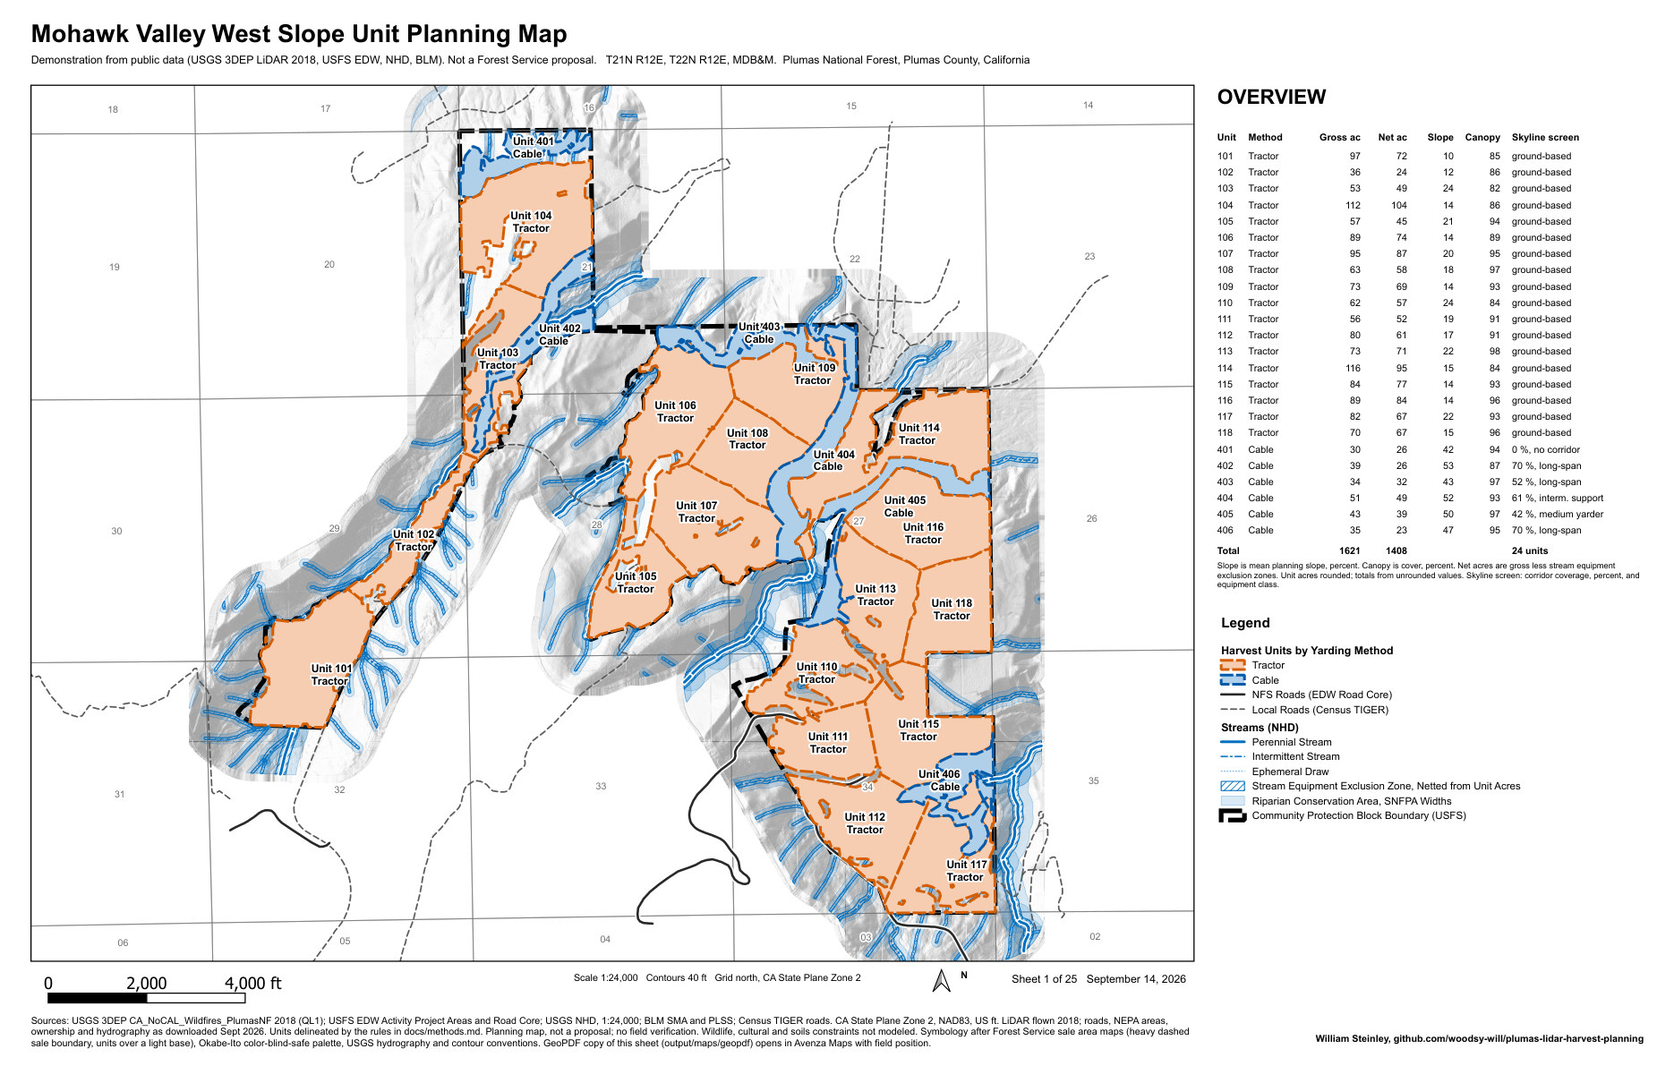
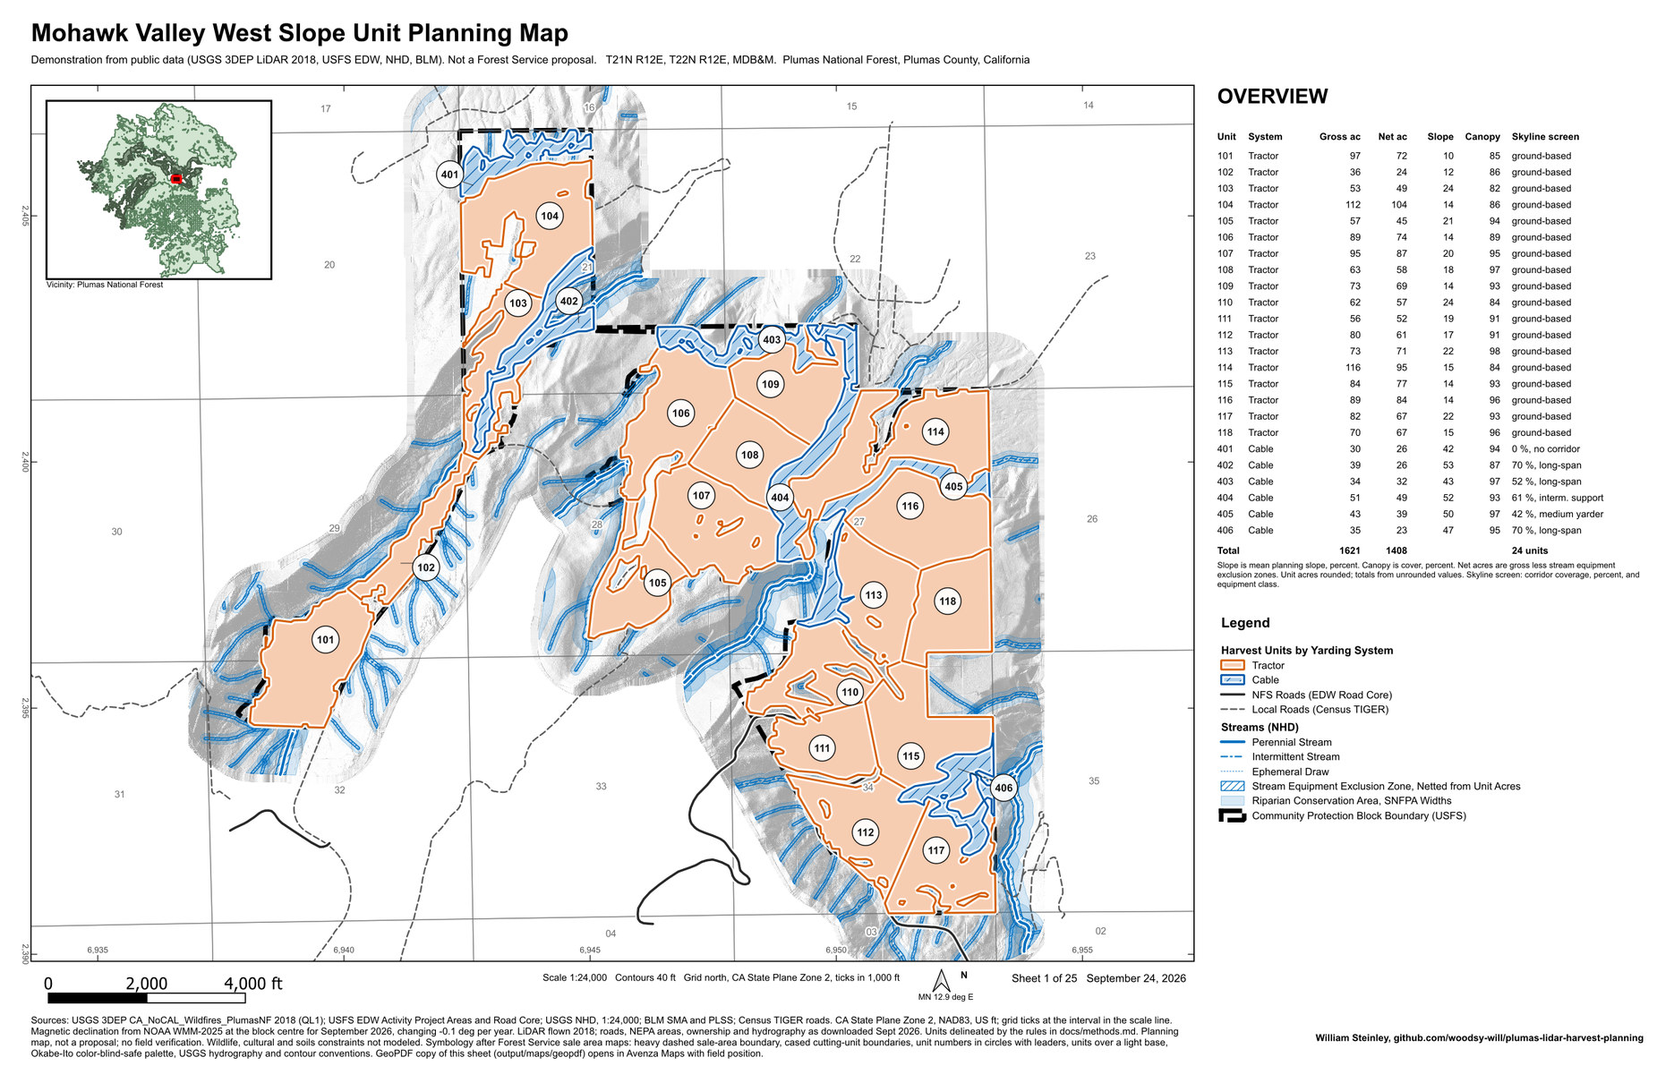
Refreshed map sheets, analyzer figures, a before-and-after on the symbology, and sample sheet links
Map sheets and the yarding-class figure come from the reworked symbology: units cased so neighbours read
apart, numbered in circles, cable units hatched, grid ticks and a vicinity map on the overview.

The Forest Inventory Analyzer had no figure at all. Added two from its browser dashboard running on the
sample cruise that ships with the tool: stand metrics with the species and diameter charts, and the
sampling-statistics table, which shows a 29 percent volume error on five plots and says so.

Added a before-and-after of the unit symbology with the three defects it fixed, and links to a three-sheet
sample as print PDF and a GeoPDF of unit 404, so the cartography can be opened without downloading the
full 194 MB series.

Interactive map: white casing under the unit lines, unit numbers in circles above zoom 13, per-unit
permalinks (#unit=404) and the printed sheet number in each popup.

diff --git a/projects/plumas-lidar-harvest-planning/map/index.html b/projects/plumas-lidar-harvest-planning/map/index.html
@@ -36,6 +36,10 @@
     .leaflet-popup-content td { padding: 1px 6px 1px 0; vertical-align: top; }
     .leaflet-popup-content td:first-child { color: var(--muted); white-space: nowrap; }
     .leaflet-control-layers { font-size: 0.9rem; }
+    /* unit number in a circle, the sale-area-map callout used on the printed sheets */
+    .unit-no { background: rgba(255,255,255,0.92); border: 1px solid #1c2420; border-radius: 50%;
+               width: 30px; height: 30px; line-height: 28px; text-align: center;
+               font-size: 0.78rem; font-weight: 700; color: #1c2420; white-space: nowrap; pointer-events: none; }
   </style>
 </head>
 <body>
@@ -99,28 +103,92 @@
       onEachFeature: (f, l) => l.bindPopup(`<div class="pt">Plot ${f.properties.plot}, unit ${f.properties.unit_id}</div><table>${row('Trees tallied', fmt(f.properties.n_trees))}${row('Slope', fmt(f.properties.slope) + ' %')}${row('QA flags', f.properties.flags || 'none')}</table><p>Simulated BAF 20 cruise. No crew measured these trees.</p>`) }, false);
 
     let selected = null;
-    const unitStyle = f => ({ color: methodColor(f.properties.method), weight: 2.6, fillColor: methodColor(f.properties.method), fillOpacity: 0.06 });
-    add('Harvest units (demonstration)', 'units.geojson', {
-      style: unitStyle,
-      onEachFeature: (f, l) => {
-        const p = f.properties; const cable = p.method === 'Cable';
-        let html = `<div class="pt">Unit ${p.unit_id}, ${p.method}</div><table>` +
-          row('Gross / net acres', `${fmt(p.acres)} / ${fmt(p.net_acres)}`) + row('Mean slope', `${fmt(p.slope_mean)} % (98th pct ${fmt(p.slope_max)} %)`) +
-          row('Aspect', p.aspect) + row('Elevation', `${fmt(p.elev_min)} to ${fmt(p.elev_max)} ft`) + row('Canopy cover', `${fmt(p.cover_pct)} %`) +
-          row('Dominant height', `${fmt(p.dom_ht)} ft`) + row('Nearest road', p.road_ft < 1 ? 'inside unit' : `${fmt(p.road_ft)} ft`);
-        if (cable) {
-          html += row('Landings selected', `${p.landings_used} of ${p.landings}`) + row('Feasible corridors', `${fmt(p.corridors_feasible)} of ${fmt(p.corridors)}`) +
-            row('Unit coverage', `${fmt(p.coverage_pct)} %`) + row('Mean deflection', `${fmt(p.mean_deflection_pct, 1)} %`) + row('Longest feasible span', `${fmt(p.max_feasible_span_ft)} ft`) +
-            row('Equipment', p.equipment) + row('Difficulty', p.difficulty) + (p.payload_at_best_lb ? row('Allowable load', `${fmt(p.payload_at_best_lb)} lb (7/8 in skyline, SF 3)`) : '');
-        } else {
-          html += row('System', 'ground-based') + (p.corridors_feasible !== '' ? row('If cable', `${fmt(p.corridors_feasible)} feasible corridors, ${fmt(p.coverage_pct)} % coverage`) : '');
-        }
-        html += '</table>';
-        l.bindPopup(html, { maxWidth: 340 });
-        l.bindTooltip(`Unit ${p.unit_id} ${p.method}`, { permanent: false, direction: 'center', className: 'unit-tip' });
-        l.on('click', () => { if (selected) selected.setStyle(unitStyle(selected.feature)); l.setStyle({ weight: 4.5, color: '#000', fillOpacity: 0.02 }); selected = l; });
+    const select = l => { if (selected) selected.setStyle(unitStyle(selected.feature)); l.setStyle({ weight: 4.5, color: '#000', fillOpacity: 0.02 }); selected = l; };
+    // Where to hang a unit number. A polygon centroid falls outside a curved unit (405 is the one here), so when it
+    // does, scan horizontal lines across the unit and take the middle of its widest inside run - the same reason the
+    // printed sheets place the number inside the unit and put the rest on a leader.
+    const inRing = (pt, ring) => {
+      let c = false;
+      for (let i = 0, j = ring.length - 1; i < ring.length; j = i++) {
+        const xi = ring[i][0], yi = ring[i][1], xj = ring[j][0], yj = ring[j][1];
+        if (((yi > pt[1]) !== (yj > pt[1])) && (pt[0] < (xj - xi) * (pt[1] - yi) / (yj - yi) + xi)) c = !c;
       }
-    }, true).then(lyr => { map.fitBounds(lyr.getBounds().pad(0.05)); });
+      return c;
+    };
+    function labelPoint(feature, fallback) {
+      const polys = feature.geometry.type === 'Polygon' ? [feature.geometry.coordinates] : feature.geometry.coordinates;
+      const inside = pt => polys.some(p => inRing(pt, p[0]) && !p.slice(1).some(h => inRing(pt, h)));
+      if (inside([fallback.lng, fallback.lat])) return fallback;
+      let x0 = Infinity, y0 = Infinity, x1 = -Infinity, y1 = -Infinity;
+      polys.forEach(p => p[0].forEach(([x, y]) => { x0 = Math.min(x0, x); x1 = Math.max(x1, x); y0 = Math.min(y0, y); y1 = Math.max(y1, y); }));
+      let best = null, bestLen = 0;
+      for (let r = 1; r < 24; r++) {
+        const y = y0 + (y1 - y0) * r / 24;
+        let runStart = null;
+        for (let c = 0; c <= 160; c++) {
+          const x = x0 + (x1 - x0) * c / 160;
+          if (inside([x, y])) { if (runStart === null) runStart = x; }
+          else if (runStart !== null) { if (x - runStart > bestLen) { bestLen = x - runStart; best = [(runStart + x) / 2, y]; } runStart = null; }
+        }
+        if (runStart !== null && x1 - runStart > bestLen) { bestLen = x1 - runStart; best = [(runStart + x1) / 2, y]; }
+      }
+      return best ? L.latLng(best[1], best[0]) : fallback;
+    }
+    const unitStyle = f => ({ color: methodColor(f.properties.method), weight: 2.6, fillColor: methodColor(f.properties.method), fillOpacity: 0.06 });
+    // The units go on as a group: a white casing, the method-coloured boundary over it, and the unit number in a circle.
+    // Neighbouring units of the same method share an edge, and without the white seam that common boundary disappears
+    // into one shape; the printed sheets case the cutting-unit boundary for the same reason.
+    const unitGroup = L.layerGroup(); overlays['Harvest units (demonstration)'] = unitGroup; layers['Harvest units (demonstration)'] = unitGroup;
+    const unitsLoaded = fetch(D + 'units.geojson').then(r => r.json()).then(gj => {
+      const casing = L.geoJSON(gj, { style: { color: '#ffffff', weight: 6, opacity: 0.9, fill: false, lineJoin: 'round' }, interactive: false });
+      // sheet numbers follow the printed series: the overview is sheet 1, then one sheet per unit in id order
+      const sheetOf = {}; gj.features.map(f => +f.properties.unit_id).sort((x, y) => x - y).forEach((id, i) => { sheetOf[id] = i + 2; });
+      const faces = L.geoJSON(gj, {
+        style: unitStyle,
+        onEachFeature: (f, l) => {
+          const p = f.properties; const cable = p.method === 'Cable';
+          let html = `<div class="pt">Unit ${p.unit_id}, ${p.method}</div><table>` +
+            row('Gross / net acres', `${fmt(p.acres)} / ${fmt(p.net_acres)}`) + row('Mean slope', `${fmt(p.slope_mean)} % (98th pct ${fmt(p.slope_max)} %)`) +
+            row('Aspect', p.aspect) + row('Elevation', `${fmt(p.elev_min)} to ${fmt(p.elev_max)} ft`) + row('Canopy cover', `${fmt(p.cover_pct)} %`) +
+            row('Dominant height', `${fmt(p.dom_ht)} ft`) + row('Nearest road', p.road_ft < 1 ? 'inside unit' : `${fmt(p.road_ft)} ft`);
+          if (cable) {
+            html += row('Landings selected', `${p.landings_used} of ${p.landings}`) + row('Feasible corridors', `${fmt(p.corridors_feasible)} of ${fmt(p.corridors)}`) +
+              row('Unit coverage', `${fmt(p.coverage_pct)} %`) + row('Mean deflection', `${fmt(p.mean_deflection_pct, 1)} %`) + row('Longest feasible span', `${fmt(p.max_feasible_span_ft)} ft`) +
+              row('Equipment', p.equipment) + row('Difficulty', p.difficulty) + (p.payload_at_best_lb ? row('Allowable load', `${fmt(p.payload_at_best_lb)} lb (7/8 in skyline, SF 3)`) : '');
+          } else {
+            html += row('System', 'ground-based') + (p.corridors_feasible !== '' ? row('If cable', `${fmt(p.corridors_feasible)} feasible corridors, ${fmt(p.coverage_pct)} % coverage`) : '');
+          }
+          html += row('Printed sheet', `${sheetOf[+p.unit_id]} of 25`) + '</table>';
+          l.bindPopup(html, { maxWidth: 340 });
+          l.bindTooltip(`Unit ${p.unit_id}, ${p.method}`, { sticky: true });   // hover still names the unit when the numbers are hidden at low zoom
+          l.on('click', () => { select(l); history.replaceState(null, '', '#unit=' + p.unit_id); });
+        }
+      });
+      unitGroup.addLayer(casing).addLayer(faces).addTo(map);
+      // #unit=404 opens the map on that unit with its attributes showing, so a unit can be linked to directly
+      const byId = {}; faces.eachLayer(l => { byId[l.feature.properties.unit_id] = l; });
+      const fromHash = () => {
+        const m2 = /#unit=(\w+)/.exec(location.hash); const l = m2 && byId[m2[1]];
+        if (!l) return false;
+        map.fitBounds(l.getBounds().pad(0.6)); select(l); l.openPopup(); return true;
+      };
+      if (!fromHash()) map.fitBounds(faces.getBounds().pad(0.05));
+      window.addEventListener('hashchange', fromHash);
+      // numbers as their own marker layer rather than permanent tooltips: a tooltip is not closed when its layer goes
+      // out with the group, and unchecking the units in the layer list left 24 numbers floating over the basemap.
+      // Polygon.getCenter is a true centroid but throws until the layer is on the map and the map has a view,
+      // so this runs after addTo and after the fitBounds above.
+      const numbers = L.layerGroup();
+      faces.eachLayer(l => numbers.addLayer(L.marker(labelPoint(l.feature, l.getCenter()), {
+        icon: L.divIcon({ className: 'unit-no', html: String(l.feature.properties.unit_id), iconSize: [30, 30] }),
+        interactive: false, keyboard: false
+      })));
+      // a unit has to be a few hundred feet across before its number is legible; below that they pile up
+      const zoomNumbers = () => { if (map.getZoom() >= 13) unitGroup.addLayer(numbers); else unitGroup.removeLayer(numbers); };
+      map.on('zoomend', zoomNumbers); zoomNumbers();
+      return unitGroup;
+    });
+    loads.push(unitsLoaded);
 
     Promise.all(loads).catch(err => {
       console.error('Layer load failed', err);
@@ -129,7 +197,8 @@
       const order = ['Yarding class (planning slope)', 'Riparian conservation areas', 'Stream equipment exclusion zones', 'Streams (NHD)', 'Contours, 200 ft', 'Treatment block (USFS EDW)', 'Feasible skyline corridors', 'Candidate landings', 'Cruise plots (simulated)', 'Harvest units (demonstration)'];
       const ov = {}; order.forEach(k => { if (overlays[k]) ov[k] = overlays[k]; });
       L.control.layers({ 'USGS Topo': usgsTopo, 'USGS Imagery Topo': usgsImg }, ov, { collapsed: window.innerWidth < 700 }).addTo(map);
-      order.forEach(k => { if (overlays[k] && map.hasLayer(overlays[k]) && overlays[k].bringToFront) overlays[k].bringToFront(); });
+      // units last, and a layer group has no bringToFront of its own: raise its members in order, casing then faces
+      order.forEach(k => { const l = overlays[k]; if (!l || !map.hasLayer(l)) return; if (l.bringToFront) l.bringToFront(); else if (l.eachLayer) l.eachLayer(x => x.bringToFront && x.bringToFront()); });
     });
 
     const legend = L.control({ position: 'bottomleft' });
@@ -137,8 +206,9 @@
       const d = L.DomUtil.create('details', 'legend');
       d.open = window.innerWidth > 700;
       d.innerHTML = `<summary>Legend</summary>
-        <div class="row"><span class="sw" style="border:2.5px solid var(--tractor)"></span>Tractor unit</div>
-        <div class="row"><span class="sw" style="border:2.5px solid var(--cable)"></span>Cable unit</div>
+        <div class="row"><span class="sw" style="border:2.5px solid var(--tractor);box-shadow:0 0 0 2px #fff"></span>Tractor unit</div>
+        <div class="row"><span class="sw" style="border:2.5px solid var(--cable);box-shadow:0 0 0 2px #fff"></span>Cable unit</div>
+        <div class="row"><span class="sw" style="border:1px solid #1c2420;border-radius:50%;width:16px;height:16px;background:#fff;font-size:0.6rem;line-height:14px;text-align:center">7</span>Unit number</div>
         <div class="row"><span class="ln" style="border-top:2.5px dashed #111"></span>Treatment block</div>
         <div class="row"><span class="sw" style="background:#5da2d8;opacity:.6"></span>Stream exclusion zone</div>
         <div class="row"><span class="sw" style="background:#bcd7ea;opacity:.7"></span>Riparian conservation area</div>
@@ -150,7 +220,7 @@
         <div class="row"><span class="sw" style="background:rgb(166,206,189)"></span>Ground-based, slope 35 % and under</div>
         <div class="row"><span class="sw" style="background:rgb(240,228,150)"></span>Marginal, 35 to 50 %</div>
         <div class="row"><span class="sw" style="background:rgb(241,176,140)"></span>Cable, over 50 %</div>
-        <div class="note">Click a unit for its attributes and skyline screen. Corridors, landings, contours and plots are in the layer list. Data in CA State Plane, shown in Web Mercator.</div>`;
+        <div class="note">Click a unit for its attributes and skyline screen. Unit numbers appear once you zoom in. Corridors, landings, contours and plots are in the layer list. Yarding class is shown for the units and a 500 ft margin. Data in CA State Plane, shown in Web Mercator.</div>`;
       L.DomEvent.disableClickPropagation(d); return d;
     };
     legend.addTo(map);

diff --git a/index.html b/index.html
@@ -83,11 +83,11 @@
               </figure>
               <div class="featured-strip">
                 <figure>
-                  <a href="projects/plumas-lidar-harvest-planning/overview_sheet.jpg" target="_blank" rel="noopener"><img src="projects/plumas-lidar-harvest-planning/overview_sheet_thumb.jpg" width="370" height="239" alt="Overview sheet, 11x17: all 24 demonstration units filled by yarding method over the hillshade, with the unit table of gross and net acres, slope, canopy and skyline screen" loading="lazy"><span class="visually-hidden"> (opens in new tab)</span></a>
-                  <figcaption>All 24 units by yarding method with the gross and net acre table, 1:24,000.</figcaption>
+                  <a href="projects/plumas-lidar-harvest-planning/overview_sheet.jpg" target="_blank" rel="noopener"><img src="projects/plumas-lidar-harvest-planning/overview_sheet_thumb.jpg" width="370" height="239" alt="Overview sheet, 11x17: all 24 demonstration units filled by yarding system over the hillshade, each unit outlined in white and numbered in a circle, cable units hatched, with the unit table of gross and net acres, slope, canopy and skyline screen" loading="lazy"><span class="visually-hidden"> (opens in new tab)</span></a>
+                  <figcaption>All 24 units by yarding system, numbered and outlined so neighbouring units read apart, with the gross and net acre table, 1:24,000.</figcaption>
                 </figure>
                 <figure>
-                  <a href="projects/plumas-lidar-harvest-planning/yarding_class.jpg" target="_blank" rel="noopener"><img src="projects/plumas-lidar-harvest-planning/yarding_class_thumb.jpg" width="319" height="340" alt="Yarding class from planning slope over the LiDAR hillshade, with demonstration unit outlines" loading="lazy"><span class="visually-hidden"> (opens in new tab)</span></a>
+                  <a href="projects/plumas-lidar-harvest-planning/yarding_class.jpg" target="_blank" rel="noopener"><img src="projects/plumas-lidar-harvest-planning/yarding_class_thumb.jpg" width="319" height="340" alt="Yarding class from planning slope over the LiDAR hillshade, with demonstration unit outlines numbered in circles" loading="lazy"><span class="visually-hidden"> (opens in new tab)</span></a>
                   <figcaption>Planning slope classed at 35 and 50 percent over the LiDAR hillshade.</figcaption>
                 </figure>
                 <figure>
@@ -131,6 +131,17 @@
                   <figcaption>Planning slope on the same ground: gentle benches pale, cable-yarding drainage walls red.</figcaption>
                 </figure>
               </div>
+              <h4>Cartography: what the first version got wrong</h4>
+              <p>The unit sheets went through a symbology review against a current Forest Service sale area map (Willamette National Forest, JC timber sale) and published cartographic guidance. Three defects and their fixes:</p>
+              <figure>
+                <a href="projects/plumas-lidar-harvest-planning/symbology_before_after.jpg" target="_blank" rel="noopener"><img src="projects/plumas-lidar-harvest-planning/symbology_before_after_thumb.jpg" width="740" height="293" alt="Side by side crops of the same six harvest units. On the left, adjacent tractor units share one fill and a dashed boundary of the same colour, so they read as a single block, and two-line labels sit outside the narrow units. On the right, each unit is outlined in white and a solid colour, numbered in a circle inside its own boundary, with the cable units hatched." loading="lazy"><span class="visually-hidden"> (opens in new tab)</span></a>
+                <figcaption>The same ground on the overview sheet, before and after the review.</figcaption>
+              </figure>
+              <ul>
+                <li><strong>Neighbouring units read as one block.</strong> Two units of the same yarding system shared a fill and a boundary of the same colour, so the line between them disappeared. Every unit boundary now carries a white casing under a solid line, which is how a sale area map keeps the cutting unit boundary the strongest line on the sheet.</li>
+                <li><strong>Labels left their units.</strong> A two-line <em>Unit 405 / Cable</em> block does not fit a narrow drainage unit, so it was placed over the neighbour. Units now carry the number alone in a circle, placed inside the unit, on a leader when it has to sit outside.</li>
+                <li><strong>Cable units read as water.</strong> They follow the drainages, and a flat blue fill next to a blue riparian wash is ambiguous. They are now hatched, so the yarding system survives a grey print and red-green colour blindness as well.</li>
+              </ul>
               <p><a href="projects/plumas-lidar-harvest-planning/map/" class="button-primary">Open the interactive map</a></p>
               <div class="project-tech">
                 <span class="tech-badge">Demonstration on public data</span>
@@ -143,7 +154,9 @@
                 <span class="tech-badge">Cruise QA</span>
               </div>
               <a href="https://github.com/woodsy-will/plumas-lidar-harvest-planning" class="gis-link" target="_blank" rel="noopener">Source &amp; previews on GitHub &rarr;<span class="visually-hidden"> (opens in new tab)</span></a>
-              <a href="https://github.com/woodsy-will/plumas-lidar-harvest-planning/releases/tag/v1.1" class="gis-link" target="_blank" rel="noopener">Map series, GeoPDFs and rasters on the v1.1 release (100 to 190 MB each) &rarr;<span class="visually-hidden"> (opens in new tab)</span></a>
+              <a href="https://github.com/woodsy-will/plumas-lidar-harvest-planning/releases/download/v1.1/Sample_Sheets.pdf" class="gis-link">Sample: three sheets as print PDF, overview plus a tractor and a cable unit (27 MB) &darr;</a>
+              <a href="https://github.com/woodsy-will/plumas-lidar-harvest-planning/releases/download/v1.1/Sample_Unit_404_GeoPDF.pdf" class="gis-link">Sample: unit 404 as an Avenza GeoPDF, opens with field position (9 MB) &darr;</a>
+              <a href="https://github.com/woodsy-will/plumas-lidar-harvest-planning/releases/tag/v1.1" class="gis-link" target="_blank" rel="noopener">Full 25-sheet series, all GeoPDFs, figures and rasters on the v1.1 release (100 to 190 MB each) &rarr;<span class="visually-hidden"> (opens in new tab)</span></a>
             </div>
 
             <div class="gis-project-card">
@@ -154,6 +167,16 @@
                 <p><strong>Method.</strong> A Rust command-line and web tool. It runs BAF expansion, TPA, basal area, cubic and board-foot volume, QMD, diameter-class and species tables, Student's t sampling error and growth projections.</p>
                 <p><strong>Result.</strong> v0.2.0, September 2026, ships a Windows installer and macOS and Linux binaries, built after the test suite passes, with checksums. 392 tests in CI.</p>
                 <p><strong>Limits.</strong> Placeholder volume equations, not regional tables. No taper models. MIT license, 2026.</p>
+              </div>
+              <div class="featured-strip">
+                <figure>
+                  <a href="projects/forest-inventory-analyzer/analyzer_dashboard.jpg" target="_blank" rel="noopener"><img src="projects/forest-inventory-analyzer/analyzer_dashboard_thumb.jpg" width="740" height="423" alt="The analyzer's browser dashboard after a cruise file is loaded: five stand metric cards reading 28.0 trees per acre, 45.8 square feet of basal area, 2,069 cubic feet and 7,944 board feet per acre and a 17.3 inch quadratic mean diameter, above a species composition bar chart and a diameter distribution chart" loading="lazy"><span class="visually-hidden"> (opens in new tab)</span></a>
+                  <figcaption>Stand metrics, species composition and the diameter distribution, compiled from the sample cruise that ships with the tool.</figcaption>
+                </figure>
+                <figure>
+                  <a href="projects/forest-inventory-analyzer/analyzer_statistics.jpg" target="_blank" rel="noopener"><img src="projects/forest-inventory-analyzer/analyzer_statistics_thumb.jpg" width="740" height="346" alt="Sampling statistics table showing mean, standard error, lower and upper confidence limits and sampling error for trees per acre, basal area and both volume measures, with the three errors above 20 percent marked in red, and the growth projection controls below it" loading="lazy"><span class="visually-hidden"> (opens in new tab)</span></a>
+                  <figcaption>Sampling error at 95 percent against Student's t. Five plots is a thin sample and the tool says so: volume error of 29 percent would fail the Region 5 stratum standard.</figcaption>
+                </figure>
               </div>
               <div class="project-tech">
                 <span class="tech-badge">Rust</span>
